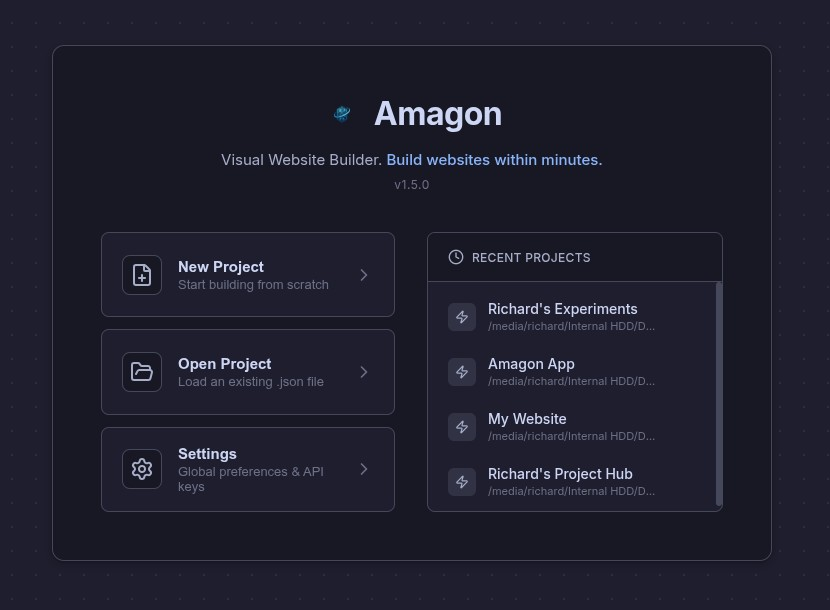
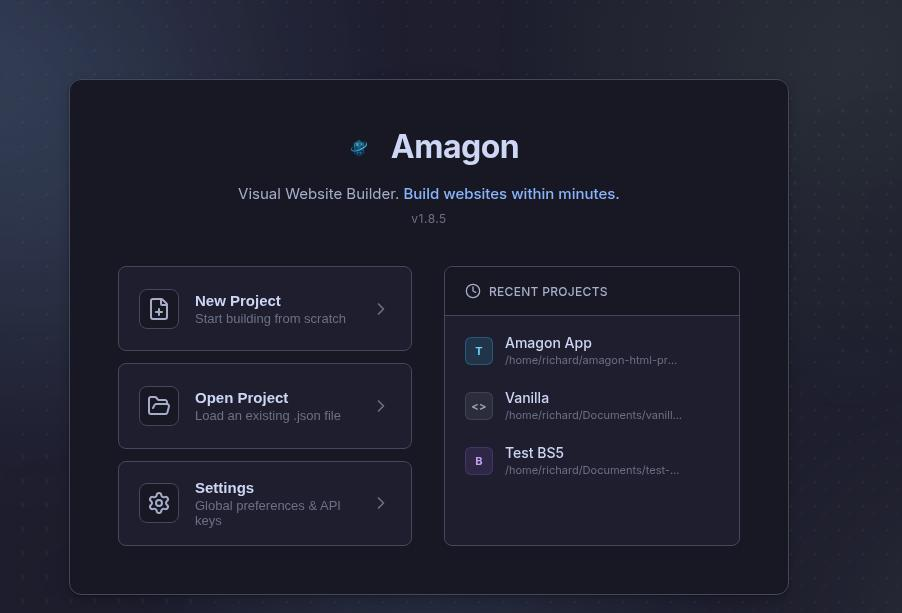
docs: simplify README and streamline feature descriptions
- Condense feature list for clarity and remove redundant details
- Update "Getting Started" and AI setup sections for brevity
- Replace raw folder structure descriptions with a minimal example
- Clarify AI pipeline and canvas rendering workflows
- Remove unnecessary historical references and verbose content

diff --git a/README.md b/README.md
@@ -4,120 +4,20 @@
   <img src="docs/images/logo.png" alt="Amagon Logo" width="200" />
 </p>
 
-An offline, AI-powered visual HTML editor. A multiplatform Pingendo/Mobirise/Bootstrap Studio alternative.
+Amagon is an offline desktop HTML editor for building block-based pages visually, then dropping to raw code when you need it.
 
 [amagon.app](https://amagon.app)
 
 ![App Preview](docs/images/app.jpg)
 
-## Why "Amagon"?
-
-**Amagon** is derived from the Cebuano (Bisaya) word *Amag*, which means "to glow" or "luminescence". Like a glowing phosphor in a dark terminal, Amagon is designed to illuminate the path between visual design and high-performance code.
-
----
-
 ## Features
 
-### AI Assistant
-
-![AI Assistant](docs/images/ai.jpg)
-
-Amagon ships with a built-in AI assistant that understands your project's block structure, theme, and design system so you can build pages with natural language.
-
-- **Multi-Provider Support**: Connect to **OpenAI** (GPT-4o, o3-mini, etc.), **Anthropic** (Claude Sonnet/Opus/Haiku), **Google** (Gemini 2.5 Flash/Pro, etc.), or **Ollama** for fully offline local LLM inference
-- **Generate UI Components**: Describe what you want ("Build a pricing table with 3 tiers") and the AI produces ready-to-insert blocks that follow your project's block schema
-- **Theme-Aware Generation**: The AI automatically receives your project's theme variables (colors, typography, spacing) so generated components stay visually consistent
-- **Conversational Chat**: Ask questions, get design advice, or request modifications to existing blocks from a sidebar chat panel
-- **One-Click Insert**: AI-generated blocks include a live preview and can be inserted into the canvas with a single click
-- **Secure Key Storage**: API keys are encrypted via the OS keyring (`safeStorage`) and never leave the main process. On Linux systems without a supported keyring, keys are encrypted using a machine-derived AES key as a fallback
-- **Dynamic Model Discovery**: Available models are fetched live from each provider's API. Ollama models are auto-detected from your local server
-- **AI Proposal Review**: AI-suggested changes to CSS files and event handlers are shown in a Monaco diff editor with Apply / Discard actions before anything is committed
-
-### Visual Editing
-
-![Visual Editing](docs/images/visual-editing.jpg)
-
-- **Drag & Drop Canvas**: Build pages by dragging blocks from the sidebar to the canvas
-- **Live Preview**: See your changes instantly in an isolated iframe canvas
-- **Inline Editing**: Double-click any text block on the canvas to edit content directly in place
-- **Responsive Preview**: Switch between desktop, tablet, and mobile viewports
-- **Zoom Controls**: Adjust canvas zoom via [+]/[-] buttons, a slider, or by typing a value directly
-- **Block Library**: 50+ pre-built blocks including headers, heroes, grids, forms, navbars, footers, code blocks, and more — with a search bar for quick filtering
-- **Custom Components**: Save your own reusable block templates
-- **Floating Toolbar**: Context-aware toolbar appears on hover with quick edit, duplicate, delete, and move actions
-
-### Code Integration
-
-![Code Integration](docs/images/code-editor.jpg)
-
-- **Monaco Editor**: Full-featured code editor (same engine behind VS Code) with syntax highlighting and IntelliSense
-- **Bidirectional Sync**: Changes in code reflect in the visual editor and vice versa
-- **Code Syntax Highlighting**: Code blocks in the canvas are rendered with highlight.js syntax coloring
-- **Clean Export**: Export to standalone HTML with no editor artifacts
-
-### Theme System
-
-![Theme System](docs/images/theme-editor.jpg)
-
-- **Visual Theme Editor**: Customize your entire site's look from a dedicated editor with tabs for colors, typography, spacing, borders, and custom CSS
-- **Theme Presets**: Choose from built-in presets to quickly set a cohesive visual style
-- **CSS Variables Pipeline**: Theme changes compile to CSS custom properties (`--theme-primary`, `--theme-bg`, `--theme-font-family`, etc.) that cascade through all blocks
-- **Import/Export Themes**: Save and load theme JSON files for reuse across projects
-
-### Inspector Panel
-
-- **Property Editor**: Edit every block's props through auto-generated forms (text, number, boolean, select, color picker, image, measurement)
-- **Style Editors**: Dedicated sub-panels for layout (display/flexbox), spacing (margin/padding), typography, background, and border
-- **Responsive Overrides**: Add responsive CSS class overrides per breakpoint
-- **CSS Class Editor**: Fine-tune Bootstrap or custom CSS classes on any block
-- **Block Actions**: Duplicate, delete, move up/down, wrap in container, or save as a user component from the inspector
-
-### Credential Manager
-
-- **Centralized Key Overview**: View all stored API keys from a single popover accessible in the toolbar, with masked values and per-service labels
-- **Encryption Status**: A banner shows whether your keys are protected by the OS keyring or by machine-derived AES encryption (fallback for Linux systems without a keyring)
-- **Security Info Modal**: When running in fallback mode, a detailed modal explains what the machine-derived encryption does, its limitations, and how to set up a proper keyring for stronger protection
-- **Per-Key Editing**: Edit individual credentials inline from the Settings → Credentials table via a dedicated edit modal
-- **Per-Key Deletion**: Remove individual API keys directly from the credential manager
-
-### Publish to Web
-
-- **One-Click Publishing**: Deploy your site directly from the editor to GitHub Pages, Cloudflare Pages, or Neocities
-- **Extensible Provider System**: Built-in providers ship with a versioned `PublisherExtension` API — new hosting targets can be added without touching core editor code
-- **Credential Management**: Publish credentials are stored encrypted (OS keyring / AES-256-GCM fallback) and managed separately from AI keys; view, edit, or delete them from Settings
-- **Pre-Publish Validation**: Each provider validates credentials and file structure before upload and surfaces actionable warnings in the UI
-- **Live Progress**: A progress panel streams phase-by-phase feedback (`validating → exporting → uploading → done`) and shows the final published URL
-
-### Interactive Tutorial
-
-- **Welcome Tour**: First-time users are greeted with a guided tour of core editor features via a spotlight overlay system
-- **Branching Paths**: After the core walkthrough, users can choose a deep-dive branch: **AI Assistance**, **Publish Workflow**, or **Web Media Search**
-- **Reactive Step Advancement**: Tutorial steps auto-advance when the user completes the expected action (e.g. drag a block, open the theme editor, send an AI message) — no "Next" button required for action steps
-- **Spotlight Highlights**: Key UI elements are highlighted with a focused mask; a floating info box with a directional arrow explains each step
-- **Restartable**: The tutorial can be restarted at any time from Settings
-
-### Project Management
-
-- **New Project Wizard**: Choose a name and CSS framework (Bootstrap 5, Tailwind CSS, or Vanilla HTML/CSS) to scaffold a new project
-- **Multi-Page Projects**: Create and manage multiple pages in a single project
-- **Save/Load**: Native project files (.json) with all assets
-- **Asset Manager**: Built-in image and asset management with integrated media search (Pexels, Pixabay)
-- **Auto-Save**: Automatic background saving
-- **Recent Projects**: Welcome screen shows recently opened projects for quick access
-
-### Advanced Features
-
-- **Undo/Redo**: Full history with 50-step rollback
-- **Keyboard Shortcuts**: Power-user shortcuts for all operations (Ctrl+K for command palette)
-- **Command Palette**: Fuzzy-search any action and execute it instantly
-- **Clipboard Operations**: Copy/paste blocks within and across pages
-- **Block Tree**: Hierarchical view of the page's DOM-like block tree in the sidebar
-- **Custom CSS**: Add global styles that apply to all blocks
-- **Dark/Light Themes**: Choose your preferred editor UI theme
-- **Flexible Layouts**: Switch between standard, no-sidebar, no-inspector, canvas-only, code-focus, and zen modes
-- **Export Options**: Multi-file (all pages) or single self-contained HTML export with optional minification and JS inclusion
-- **Preview in Browser**: One-click preview of exported pages in your default browser
-- **Lazy Loading**: Heavy components (code editor, dialogs) are code-split and lazy-loaded for fast startup
+- **AI assistant**: Generate blocks from plain-language prompts, work with multiple providers, and review AI edits in a Monaco diff before applying them.
+- **Visual editing**: Build pages with drag and drop, inline text editing, reusable blocks, and responsive preview modes.
+- **Code integration**: Switch to Monaco at any time and keep the visual canvas and HTML in sync in both directions.
+- **Theme system**: Edit colors, typography, spacing, borders, and custom CSS from one place, backed by CSS variables.
+- **Publish to web**: Publish directly to GitHub Pages, Cloudflare Pages, Neocities, or AWS S3, or add your own provider through `PublisherExtension`.
+- **Project workflow**: Manage multi-page projects, assets, reusable blocks, and exports, with an interactive tutorial for first-time users.
 
 ## Getting Started
 
@@ -136,17 +36,19 @@ Amagon targets standard Windows 10/11 and mainstream Linux distributions. See [d
 
 ## AI Setup
 
-Amagon's AI assistant works with any of the following providers:
+Common setups:
 
 | Provider | Setup |
 |----------|-------|
 | **OpenAI** | Enter your API key in the AI settings panel |
 | **Anthropic** | Enter your API key in the AI settings panel |
 | **Google (Gemini)** | Enter your API key in the AI settings panel |
-| **Ollama** (local) | Install [Ollama](https://ollama.com/), pull a model, and it auto-connects at `localhost:11434`. No API key needed |
-| **Codex** (local/cli) | Install [Codex](https://github.com/openai/codex) and authenticate your account and the app will make use of it |
+| **Ollama** (local) | Install [Ollama](https://ollama.com/), pull a model, and it auto-connects at `localhost:11434` |
+| **Codex CLI** | Install [Codex](https://github.com/openai/codex) and authenticate it locally |
 
-Open the AI panel from the sidebar, click the settings icon, select your provider, and enter your API key. For Ollama, just select it for local inference. The AI will automatically discover available models.
+Other supported providers include Mistral and several CLI-based tools (Claude CLI, Gemini CLI, GitHub Copilot CLI, Junie CLI, and Opencode CLI).
+
+Open the AI panel from the sidebar, click the settings icon, choose a provider, and add credentials if needed. Ollama and the CLI providers use your local setup, and Amagon discovers available models automatically.
 
 ## Keyboard Shortcuts
 
@@ -171,51 +73,43 @@ Open the AI panel from the sidebar, click the settings icon, select your provide
 
 ## Project Structure
 
-```
+```text
 src/
 ├── main/                 # Electron main process
 │   ├── aiService.ts      # AI provider adapters + secure key storage
 │   ├── credentialCatalog.ts  # Credential definition registry
 │   └── publishCredentials.ts # Publish credential storage
-├── preload/             # Electron preload scripts
-├── preview/             # Canvas runtime (iframe content)
-├── publish/             # Publish-to-web extension system
-│   ├── registry.ts      # Publisher registration
-│   ├── types/           # Extension API types
-│   ├── providers/       # GitHub Pages, Cloudflare Pages, Neocities
-│   └── validators/      # Per-provider validators
-├── renderer/            # React app
-│   ├── components/      # React components
-│   │   ├── AiAssistant/ # AI chat panel + settings
-│   │   ├── Canvas/      # Visual canvas (iframe)
-│   │   ├── CodeEditor/  # Monaco code editor
-│   │   ├── Inspector/   # Property/style inspector
-│   │   ├── ThemeEditor/ # Visual theme customization
-│   │   ├── PublishDialog/ # Publish-to-web UI
-│   │   ├── Tutorial/    # Interactive onboarding overlay
-│   │   └── ...          # Toolbar, Sidebar, CommandPalette, etc.
-│   ├── hooks/           # Custom React hooks
-│   ├── registry/        # Block definitions (50+ types)
-│   ├── store/           # Zustand stores (includes tutorialStore)
-│   ├── styles/          # CSS styles
-│   └── utils/           # Utility functions
-└── types/               # TypeScript types
+├── preload/              # Electron preload scripts
+├── preview/              # Canvas runtime (iframe content)
+├── publish/              # Publish-to-web extension system
+│   ├── registry.ts       # Publisher registration
+│   ├── types/            # Extension API types
+│   ├── providers/        # GitHub Pages, Cloudflare Pages, Neocities, AWS S3
+│   └── validators/       # Per-provider validators
+├── renderer/             # React app
+│   ├── components/       # React components
+│   │   ├── AiAssistant/  # AI chat panel + settings
+│   │   ├── Canvas/       # Visual canvas
+│   │   ├── CodeEditor/   # Monaco code editor
+│   │   ├── ThemeEditor/  # Theme editing UI
+│   │   ├── PublishDialog/ # Publish UI
+│   │   └── ...           # Inspector, Toolbar, Sidebar, Tutorial, etc.
+│   ├── hooks/            # Custom React hooks
+│   ├── registry/         # Block definitions (50+ types)
+│   ├── store/            # Zustand stores (includes tutorialStore)
+│   ├── styles/           # CSS styles
+│   └── utils/            # Utility functions
+└── types/                # TypeScript types
 ```
 
 ## Tech Stack
 
-- **Electron**: Cross-platform desktop app framework
-- **Vite**: Fast development and building
-- **React**: UI component library
-- **TypeScript**: Type-safe JavaScript
-- **Zustand**: Lightweight state management
-- **Monaco Editor**: VS Code's editor component
-- **highlight.js**: Syntax highlighting for code blocks
-- **dnd-kit**: Modern drag and drop primitives
-- **Lucide React**: Icon library
-- **react-resizable-panels**: Resizable split panes
-- **parse5**: HTML parsing for bidirectional code sync
-- **Bootstrap 5**: Default CSS framework for generated pages
+- **App shell**: Electron
+- **Build**: Vite
+- **UI**: React, TypeScript, Zustand
+- **Editing**: Monaco Editor, parse5, highlight.js
+- **Interaction**: dnd-kit, react-resizable-panels
+- **Styling**: Bootstrap 5, Lucide React
 
 ## Architecture
 
@@ -225,12 +119,12 @@ src/
 - **AiStore**: Chat messages, AI configuration, model lists, provider state
 
 ### Canvas Rendering
-The canvas runs in an isolated iframe for security. Blocks are rendered to HTML, sent via postMessage, and interactions are relayed back.
+The canvas runs in an isolated iframe. Blocks are rendered to HTML, sent with `postMessage`, and user interactions are relayed back.
 
 ### AI Pipeline
 1. User sends a message from the AI chat panel
-2. The renderer forwards the prompt (with block registry + theme context) to the main process via IPC
-3. The main process builds a system prompt describing the block schema and theme, then dispatches to the selected provider adapter
+2. The renderer forwards the prompt, with block registry and theme context, to the main process via IPC
+3. The main process builds a system prompt and dispatches it to the selected provider adapter
 4. The response is parsed for JSON blocks or plain text and returned to the renderer
 5. Generated blocks can be previewed inline and inserted into the canvas with one click
 
@@ -240,16 +134,8 @@ Projects export to clean HTML:
 - No editor artifacts
 - Optional inlined or external CSS
 - Multi-page site or single self-contained HTML file
-- Minification support
-- Asset consolidation
+- Minification support and asset consolidation
 - Standalone output ready for deployment
-
-
-## The Story of "Hoarses"
-
-During the initial scaffolding phase, the developer wanted a name that sounded fast but was unique enough to avoid conflicts with existing npm packages. **"Hoarses"** was chosen because it sounded like a heavy, breathing engine. The extra "a" and "e" were added to ensure the internal directory names stayed unique in the terminal.
-
-Over time, it became a badge of honor among the contributors: **"Amagon is what the world sees, but Hoarses is the engine that screams"**.
 
 ## License
 